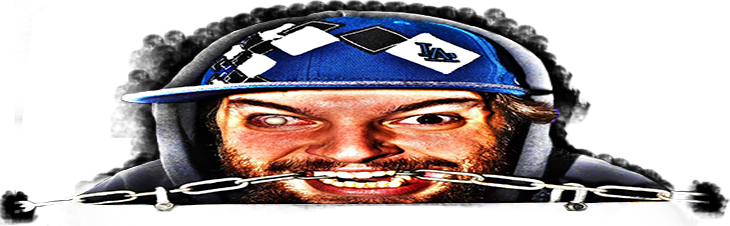
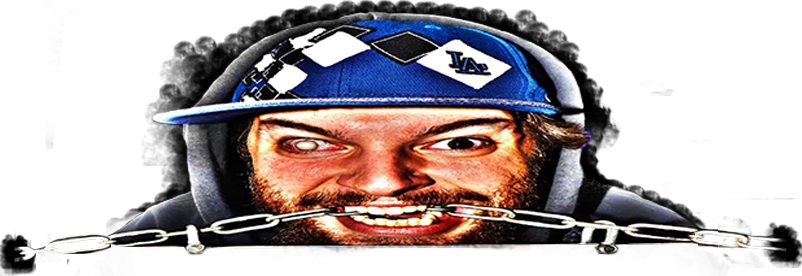
some new chancges

diff --git a/app/assets/stylesheets/domov.css.scss b/app/assets/stylesheets/domov.css.scss
@@ -7,16 +7,23 @@
 }
 .vmesnik{
 	width: 100%;
-	height: 200px;
+	height: 230px;
 }
 .blog{
+	background:#6c6c6c;
 	position: relative;
 
 	img{
 		position: absolute;
 		z-index: 1;
-		left: 50px;
-		top:-200px;
+		left: 0px;
+		top:-240px;
 
+	}
+	.panel_for_blog{
+		width: 75%;
+		background:#d5d5d5;
+		border-radius: 5px;
+		margin-left: 13%;
 	}
 }

diff --git a/app/controllers/domov_controller.rb b/app/controllers/domov_controller.rb
@@ -2,7 +2,7 @@ class DomovController < ApplicationController
   require 'youtube_it'
 
   def index
-  	@blogs = Blog.limit(2).sort {|a,b| b<=>a}
+  	@blogs = Blog.order("created_at DESC").limit(2)
   	@videos = yt_client.my_videos
   end
 end
